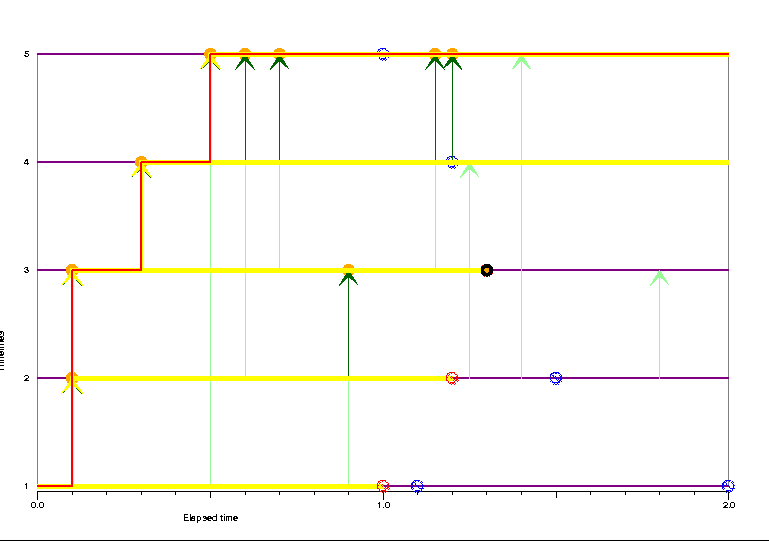
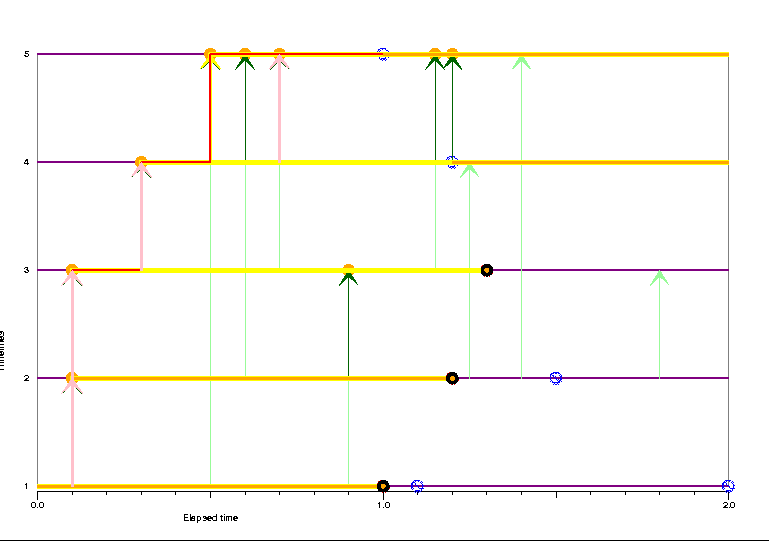
Now static.py will do pretty mcu all we need (including last viable infections). But it all needs checking!

diff --git a/python/TODO.md b/python/TODO.md
@@ -13,7 +13,7 @@ Still to be done
  - **DONE:** Colour-code potential infections according to whether or not they are active.
  - Introduce conditioned observed removals(!).
  - **DONE:** Compute Mordor, no-fly zone
- - Compute last feasible infections.
+ - **DONE:** Compute last feasible infections.
  - Produce a dynamic version, which updates according to our algorithm using a new `Innovations` instance which possesses an `update` method.
  - Check monotonicity using many random runs.
  - Implement _CFTP_.

diff --git a/python/KEY.md b/python/KEY.md
@@ -65,3 +65,7 @@ only the implemented removal is visible.
 
 ![West](image/inline-West.png){width=100} illustrates tag ending `West`: infection must occur before these orange portions of rows if removals are to be unchanged.
 
+----
+
+![lvI](image/inline-lvI.png){width=100} illustrates tag ending `lvI`: last viable infection times are indicated by pink arrows. Note that in case infection occurs at time `0`, then this is deemed to be the last viable infection time!
+
